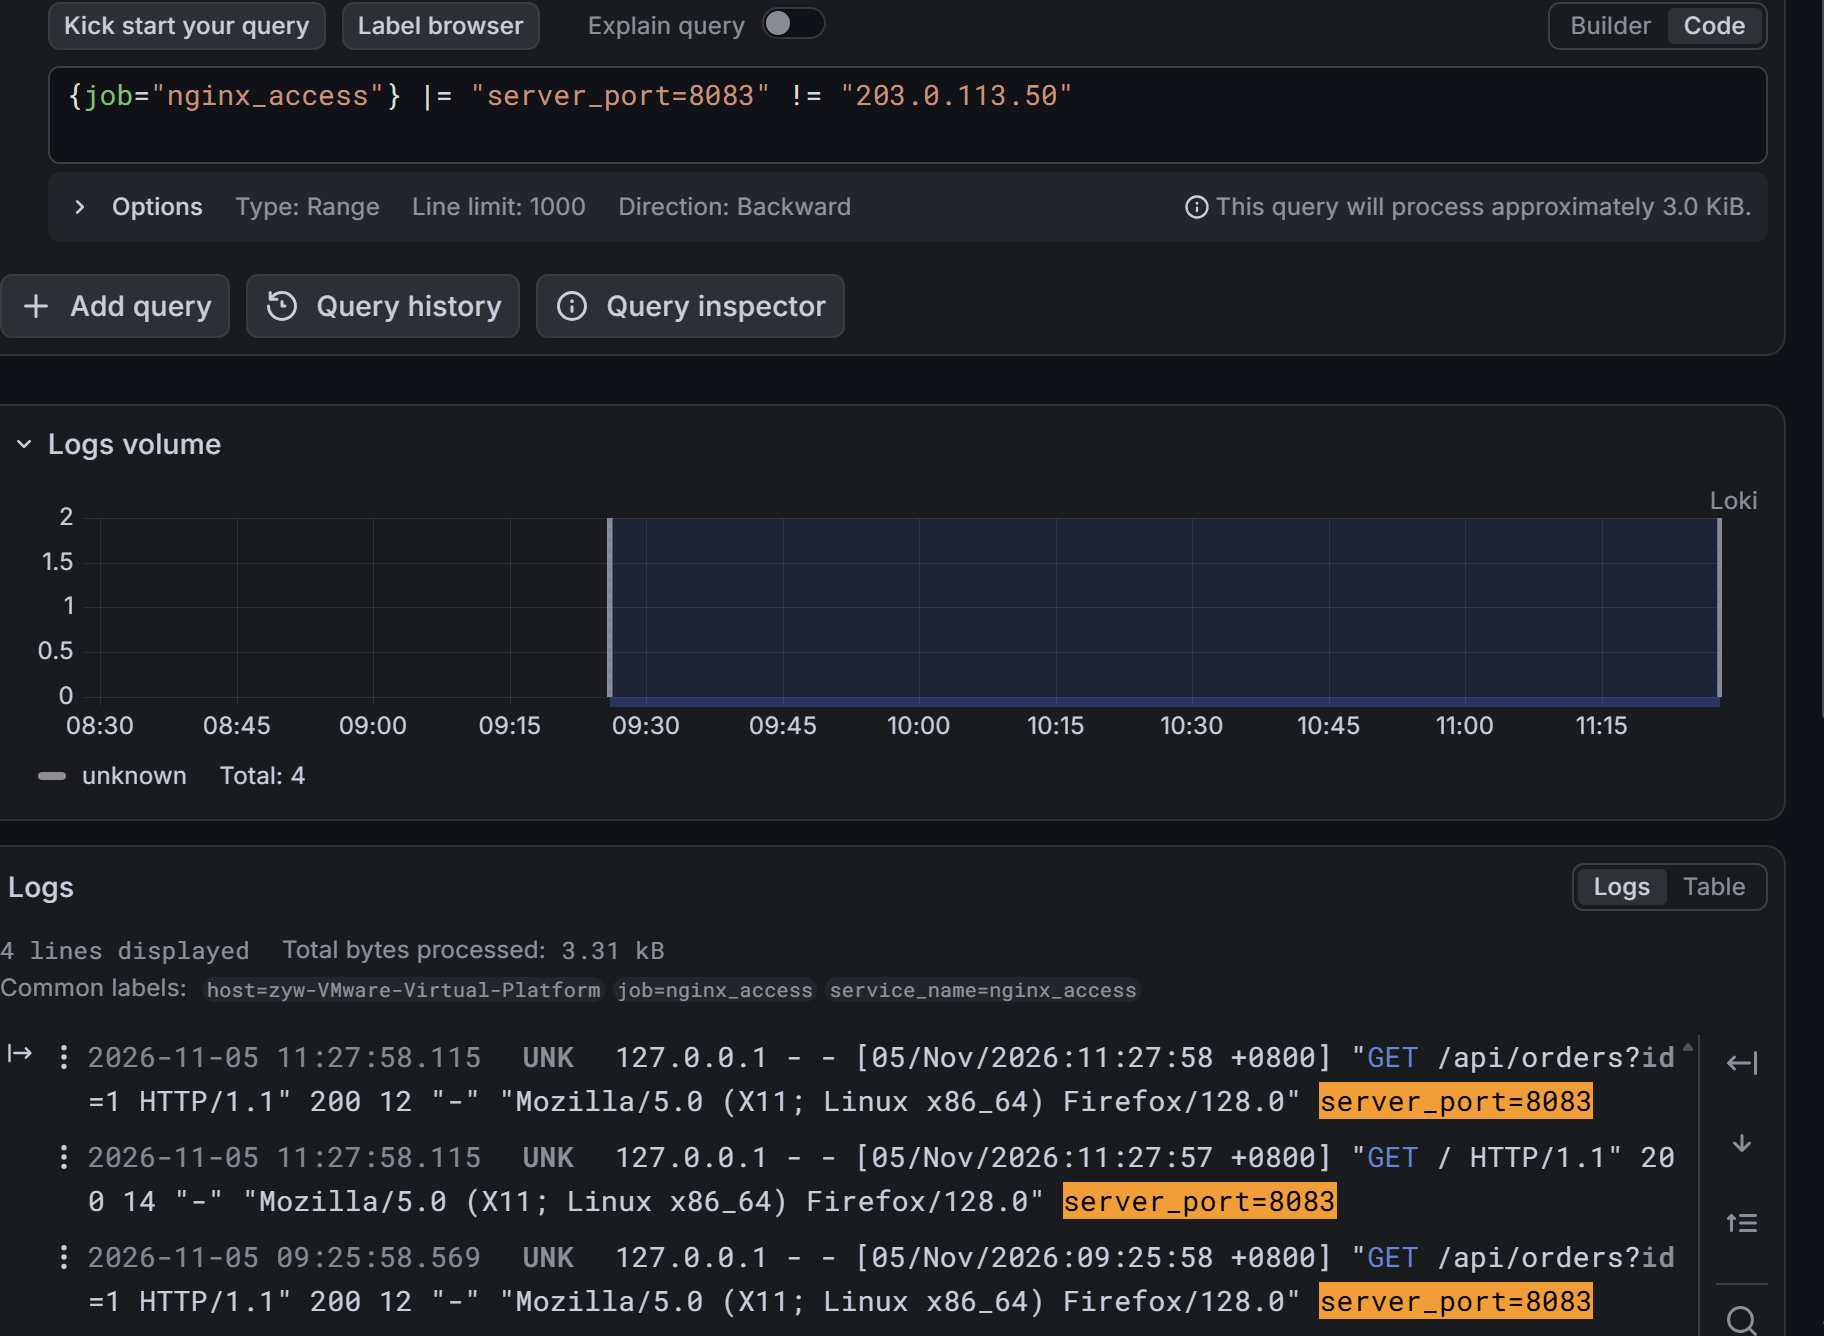
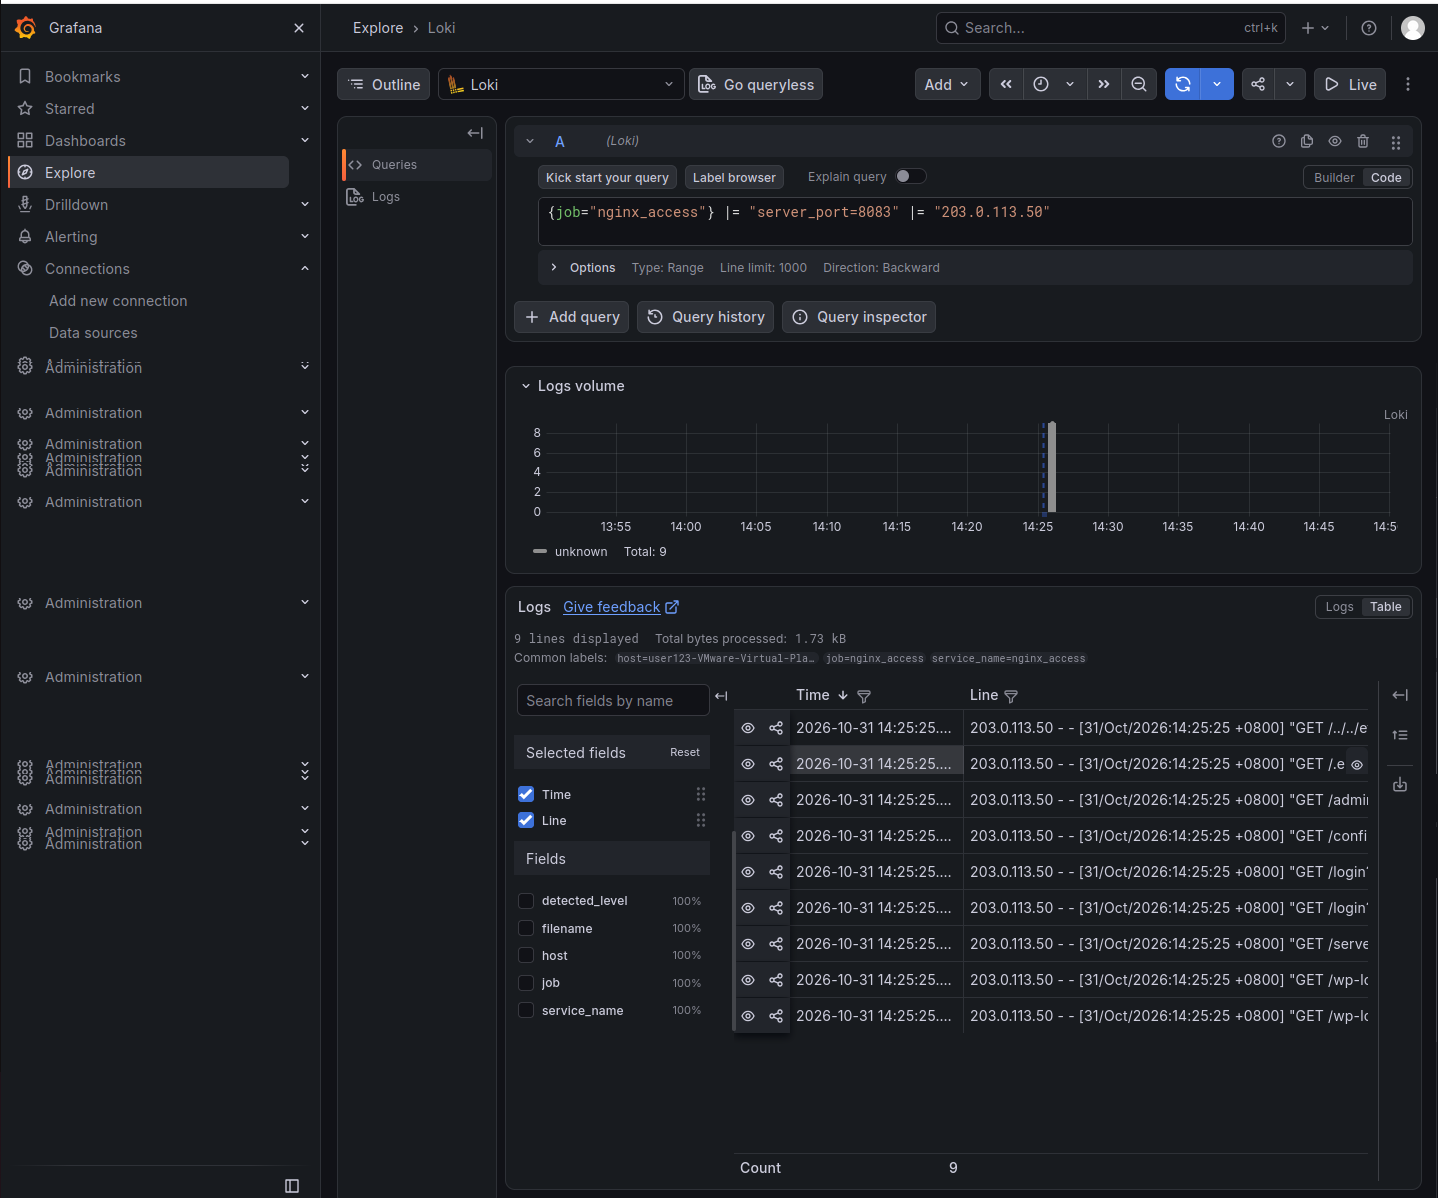
完成作业Lab8

diff --git a/2024010009张怡雯/Lab8/Lab8.md b/2024010009张怡雯/Lab8/Lab8.md
@@ -276,11 +276,11 @@ systemctl status alloy --no-pager
 >
 > 1. 8083 站点是否验证通过？`/`、`/admin`、`/.env` 的返回状态码分别是什么？
 >
->    答：8083 站点验证通过；/ 返回 200，/admin 返回403，/.env 返回404
+>    答：8083 站点验证通过；`/`返回 200，`/admin`返回 403，`/.env`返回 404
 >
 > 2. `{job="nginx_access"} |= "server_port=8083"` 包含哪些正常请求？来源 IP 是什么？若宿主机无法访问，使用哪两条请求作为对照？
 >
->    答：包含 `GET /`、`GET /api/orders?id=1` 正常请求；来源 IP 为 127.0.0.1；宿主机无法访问时，使用`GET /`和`GET /api/orders?id=1`两条请求作为对照。
+>    答：包含访问首页`/`与接口`/api/orders?id=1`的请求；正常来源 IP 为`127.0.0.1`；宿主机无法访问时，使用两条 curl 发送的 Firefox‑UA 请求作为对照
 
 ![概览](imgs/lab8-overview.png)
 
@@ -352,11 +352,11 @@ sudo tail -n 30 /var/log/nginx/access.log
 
 | 4W1R | 填写 |
 | :--- | :--- |
-| When 什么时候 |03/Nov/2026:17:00:00 +0800 |
-| Where 在哪里 |本机 nginx，标签 `host="zyw-VMware-Virtual-Platform"`，`job="nginx_access"` |
-| Who 谁 |来源 `127.0.0.1`，User-Agent 为 `Mozilla/5.0 (X11; Linux x86_64) Firefox/128.0` |
-| What 做了什么 | 向 `/api/orders?id=1` 发送 GET 请求|
-| Result 结果如何 |请求返回状态码 `200`，请求成功 |
+| When 什么时候 | 31/Oct/2026:14:25:22 +0800|
+| Where 在哪里 |本机 Nginx 8083 站点，日志源 `/var/log/nginx/access.log`，标签 `job="nginx_access"` |
+| Who 谁 |源 IP：`203.0.113.50`；UA：`sqlmap/1.8` |
+| What 做了什么 | GET 请求 `/login?user=admin' OR '1'='1`，携带 SQL 注入 payload，尝试 SQL 注入探测|
+| Result 结果如何 | HTTP 状态码 `400`，演示站固定返回，不能证明注入成功，也不能证明被拦截|
 
 示例仅说明字段填写方式，报告应使用实际查询到的日志：
 
@@ -370,15 +370,15 @@ sudo tail -n 30 /var/log/nginx/access.log
 >
 > 1. 选择了哪一条日志？原文是什么？
 >
->    答：127.0.0.1 - - [03/Nov/2026:17:00:00 +0800] "GET /api/orders?id=1 HTTP/1.1" 200 12 "-" "Mozilla/5.0 (X11; Linux x86_64) Firefox/128.0" server_port=8083
+>    答：203.0.113.50 - - [31/Oct/2026:14:25:22 +0800] "GET /login?user=admin' OR '1'='1 HTTP/1.1" 400 24 "-" "sqlmap/1.8" server_port=8083
 >
 > 2. 该日志的 4W1R 分别是什么？
 >
->    答：When：`03/Nov/2026:17:00:00 +0800`；Where：本机 nginx，标签`host="zyw-VMware-Virtual-Platform"`，`job="nginx_access"`；Who：来源`127.0.0.1`，User-Agent 为`Mozilla/5.0 (X11; Linux x86_64) Firefox/128.0`；What：向`/api/orders?id=1`发送 GET 请求查询订单；Result：返回状态码 200，接口请求成功。
+>    答：When：`31/Oct/2026:14:25:22 +0800`；Where：本机 Nginx 服务，日志文件 `/var/log/nginx/access.log`；Who：源 IP `203.0.113.50`，User-Agent `sqlmap/1.8`；What：访问 `/login` 并携带 SQL 注入载荷，做注入探测；Result：返回 400，属于演示站固定响应，无法判定注入是否成功
 >
 > 3. 攻击请求与正常请求在来源、User-Agent、路径上有哪些差异？
 >
->    答：本条是正常业务请求，来源为本机，User-Agent 是浏览器标识，访问业务接口路径；攻击请求一般会访问后台、配置文件等敏感路径，User-Agent 常为扫描工具，来源也可能是陌生外部 IP。
+>    答：来源：正常流量`127.0.0.1`，攻击流量`203.0.113.50`；User‑Agent：正常为 Firefox 浏览器标识，攻击使用模拟扫描器 UA，还有伪装浏览器 UA；路径：正常只访问业务首页与 API 接口，攻击大量访问后台、敏感文件、注入测试路径
 
 ---
 
@@ -428,11 +428,11 @@ sum by (remote_addr) (
 >
 > 1. 请求数最多的来源 IP 是哪一个？请求数约为多少？
 >
->    答：请求最多的来源 IP 是`203.0.113.50`，请求数约 9 次。
+>    答：请求最多来源 IP 是`203.0.113.50`，共计 9 条攻击请求
 >
 > 2. 除攻击来源外还有哪些来源？分别对应什么请求？
 >
->    答：还有`127.0.0.1`，对应请求：`GET /api/orders?id=1`、`GET /`，属于正常业务访问。
+>    答：`127.0.0.1`，对应手工 curl 正常请求与 web‑attack.sh 脚本产生的正常业务访问
 
 ![来源 IP 聚合](imgs/lab8-top-ip.png)
 
@@ -476,11 +476,11 @@ sum by (http_user_agent) (
 >
 > 1. 出现了哪些 User-Agent？哪些具有自动化工具特征，哪些具有正常浏览器特征？
 >
->    答：出现的 User-Agent：`Mozilla/5.0`、`Mozilla/5.0 (X11; Linux x86_64) Firefox/128.0`、`Nikto/2.5.0`、`sqlmap/1.8`。自动化工具特征：`Nikto/2.5.0`、`sqlmap/1.8`；正常浏览器特征：`Mozilla/5.0 (X11; Linux x86_64) Firefox/128.0`、`Mozilla/5.0`。
+>    答：出现`sqlmap/1.8`、`Nikto/2.5.0`、`Mozilla/5.0`、`Mozilla/5.0 (X11; Linux x86_64) Firefox/128.0`；`sqlmap/1.8`、`Nikto/2.5.0`属于模拟自动化扫描工具特征；Firefox 完整 UA 为正常浏览器特征，`Mozilla/5.0`是攻击者伪装浏览器的探测 UA
 >
 > 2. 同一 User-Agent 对应多少条请求？请求了哪些路径？
 >
->    答：`Mozilla/5.0`：1 条，请求路径`/wp-login.php`；`Mozilla/5.0 (X11; Linux x86_64) Firefox/128.0`：2 条，请求路径`/api/orders?id=1`、`/`；`Nikto/2.5.0`：5 条，请求路径`/wp-login.php`、`/server-status`、`/admin`、`/config.php.bak`、`/.env`；`sqlmap/1.8`：2 条，请求路径`/login?user=admin'OR'1'='1`。
+>    答：`sqlmap/1.8`共 2 条，访问`/login`注入探测路径；`Nikto/2.5.0`共 6 条，访问`/.env`、`/config.php.bak`、`/admin`、`/server‑status`、`/wp‑login.php`、`/../../etc/passwd`；`Mozilla/5.0`1 条访问`/wp‑login.php`；Firefox 完整 UA 共 4 条，访问`/`、`/api/orders?id=1`
 
 ![扫描器 UA](imgs/lab8-scanner.png)
 
@@ -526,11 +526,11 @@ sum by (path, status) (
 >
 > 1. 哪些路径属于业务正常路径？哪些属于攻击探测路径？
 >
->    答：正常业务路径：`/`、`/api/orders?id=1`；攻击探测路径：`/wp-login.php`、`/../../etc/passwd`、`/server-status`、`/admin`、`/config.php.bak`、`/.env`、`/login?user=admin'OR'1'='1`。
+>    答：正常业务路径：`/`、`/api/orders`；攻击探测路径：`/admin`、`/.env`、`/config.php.bak`、`/wp‑login.php`、`/server‑status`、`/login`（注入探测）、`/../../etc/passwd`
 >
 > 2. 是否存在敏感路径返回 `200`？如果有，是哪一条？
 >
->    答：不存在敏感路径返回 200，返回 200 的`/`、`/api/orders?id=1`均为正常业务路径。
+>    答：没有敏感路径返回 200，全部探测路径返回 400、403、404
 
 ![路径与状态码](imgs/lab8-paths.png)
 
@@ -558,13 +558,11 @@ sum by (path, status) (
 >
 > 1. 正常流量的来源 IP 和 User-Agent 是什么？
 >
->    答：来源 IP： 127.0.0.1 （本地回环地址,User-Agent： Mozilla/5.0 (X11; Linux x86_64) Firefox/128.0
+>    答：来源 IP`127.0.0.1`；User‑Agent 为`Mozilla/5.0 (X11; Linux x86_64) Firefox/128.0`
 >
 > 2. 仅依据“404 数量较多”判断攻击，会遗漏哪些信息？
 >
->    答：1.攻击者的真实意图： 404 只代表请求了不存在的资源。如果攻击者使用了正确的参数和路径（如 /api/orders?id=1）去测试越权或 SQL 注入，即使攻击成功，服务器也可能返回 200（正常）或 500（报错），此时单看 404 会漏报。2.非 404 的攻击行为（如扫描器探测、DDoS）： 攻击者如果频繁请求存在的页面（如 / ），此时全是 200 状态码；或者进行目录扫描时，大量请求触发 403（禁止访问）；或者单纯的 CC 攻击导致 502/503。这些都不在 404 的统计范围内。
-3.异常来源特征（如可疑的 User-Agent）： 很多自动化攻击工具（如提示中提到的 curl/8.x）或扫描器，即使它们引发了大量 404，如果不结合特征库（User-Agent、IP 频次、特定 Payload）去综合研判，仅凭 404 数量高无法确认是恶意攻击还是正常的死链访问。
-4.攻击的成功率： 大量的 404 可能只是攻击者在“踩点”或盲扫，无法判断其是否最终命中并获取了敏感数据。
+>    答：会遗漏来源 IP、请求时间集中程度、User‑Agent 特征、请求路径语义；部分正常用户访问不存在页面同样产生 404，单凭 404 不能判定扫描攻击
 
 ---
 
@@ -629,11 +627,11 @@ sudo tail -n 20 /var/log/nginx/error.log
 >
 > 1. 时间线覆盖了哪些关键请求？
 >
->    答：覆盖本地正常访问 `/`、`/api/orders?id=1` 的业务请求，以及外部 IP `203.0.113.50` 发起的目录穿越、`.env`、后台管理、备份文件、SQL 注入等探测扫描请求。
+>    答：包含正常业务访问、SQL 注入探测、敏感文件探测、后台路径探测、路径穿越探测、伪装浏览器 UA 的探测请求，完整覆盖`203.0.113.50`全部 9 条攻击行为
 >
 > 2. 结论属于哪一项？依据是什么？排除了哪种可能？
 >
->    答：结论为**证据不足，仅发现扫描行为，未发现利用成功**。依据：nginx 访问日志中所有攻击探测请求返回均为 403、404，没有敏感路径 200、没有回显或 webshell 上传等成功利用日志；仅基于 nginx access 日志，**无法排除主机层面已经被入侵的可能性**。
+>    答：结论：扫描 / 探测，未发现成功利用迹象；依据：攻击请求全部返回 400/403/404，无敏感路径返回 200；排除攻击成功利用的可能性；该结论仅基于 nginx access.log，未做完整主机取证，不能完全排除主机层面异常
 
 ---
 
@@ -641,16 +639,16 @@ sudo tail -n 20 /var/log/nginx/error.log
 
 | 项目 | 记录 |
 | :--- | :--- |
-| 攻击来源 IP |203.0.113.50 |
-| 扫描器 User-Agent（自报，不能证明真实工具） |sqlmap/1.8、Nikto、Nessus 等（实验里是 sqlmap/1.8） |
-| 被探测路径（至少 5 个） |`/wp-login.php`、`/../../etc/passwd`、`/server-status`、`/admin`、`/config.php.bak`、`/.env`、`/login?user=admin'OR'1'='1` |
-| 攻击来源 `203.0.113.50` 的状态码分布（200/400/403/404/500 各多少） |200：0；400：0；403：2；404：5；500：0 |
-| 正常流量来源（`127.0.0.1` 手工/脚本请求、宿主机浏览器等） |127.0.0.1，本地浏览器访问首页`/`和接口`/api/orders?id=1`，返回 200 |
-| 攻击时间范围 |2026-11-05 09:25 |
-| 结论（扫描/疑似成功/证据不足） |证据不足，仅存在扫描探测，access 日志无成功利用迹象 |
-| 关键 LogQL |`{job="nginx_access"}= "server_port=8083"!= "203.0.113.50"`、`{job="nginx_access"}= "203.0.113.50"` |
-| 证据截图 | Loki 日志查询截图、日志 volume 时序图、路径与状态码统计截图|
-| 处置建议（封 IP、限速、WAF、告警） |防火墙封禁攻击源 IP；部署 WAF 拦截目录穿越、SQL 注入、敏感文件探测；增加访问日志告警，对高频异常路径探测触发告警；限制后台管理路径访问源 |
+| 攻击来源 IP | 203.0.113.50|
+| 扫描器 User-Agent（自报，不能证明真实工具） |`sqlmap/1.8`、`Nikto/2.5.0`、伪装`Mozilla/5.0` |
+| 被探测路径（至少 5 个） | `/login`、`/.env`、`/admin`、`/wp‑login.php`、`/config.php.bak`|
+| 攻击来源 `203.0.113.50` 的状态码分布（200/400/403/404/500 各多少） |200：0；400：2；403：2；404：5；500：0 |
+| 正常流量来源（`127.0.0.1` 手工/脚本请求、宿主机浏览器等） |`127.0.0.1`，共 4 条正常业务请求 |
+| 攻击时间范围 |31/Oct/2026:14:25:22 +0800 ~ 31/Oct/2026:14:25:22 +0800 |
+| 结论（扫描/疑似成功/证据不足） |扫描 / 探测，未发现成功利用迹象 |
+| 关键 LogQL |{job="nginx_access"} |= "server_port=8083"；IP聚合；UA聚合；path+status聚合；筛选攻击IP203.0.113.50|
+| 证据截图 |lab8‑overview.png、lab8‑top‑ip.png、lab8‑scanner.png、lab8‑paths.png、lab8‑timeline.png |
+| 处置建议（封 IP、限速、WAF、告警） |对该 IP 执行临时封禁；配置 WAF 拦截大量敏感路径探测；配置日志告警，短时间同一 IP 大量 4xx 请求触发告警；对异常源 IP 限速 |
 
 ---
 
@@ -660,15 +658,15 @@ sudo tail -n 20 /var/log/nginx/error.log
 
 1. `sqlmap/1.8` User-Agent 和 `/.env` 请求分别能提供什么信息？仅凭这两条日志能否判断攻击已经成功？还需要哪些证据？
 
-   > 填写：`sqlmap/1.8` 标识攻击者使用 sqlmap 进行 SQL 注入探测，`/.env` 是尝试读取环境配置文件窃取密钥。仅凭这两条日志**不能判定攻击成功**。还需要查看响应状态码、响应包内容，以及主机日志、文件变更日志，确认是否拿到数据或写入文件。
+   > 填写：`sqlmap/1.8`是客户端自报 UA，提示可能为 SQL 注入扫描行为；访问`/.env`代表尝试读取敏感配置文件。仅凭两条日志不能判定攻击成功。还需要：敏感路径返回 200、存在数据泄露行为、主机侧文件被读取修改等证据
 
 2. 为什么不能以 404 数量作为入侵判断依据？还应检查哪些字段或日志源？
 
-   > 填写：404 代表资源不存在，很多正常爬虫、误访问也会产生大量 404，本身不代表入侵。还需要检查响应状态码 200、响应体、POST 上传请求，同时查看 nginx error 日志、系统安全日志、文件审计日志。
+   > 填写：普通用户访问不存在页面同样会产生 404，404 仅代表资源不存在，不等于入侵。还需要检查来源 IP、请求时间集中度、请求路径特征、User‑Agent；同时核对`auth.log`、nginx 错误日志等主机日志
 
 3. 攻击者将 User-Agent 伪装为正常 Chrome 后，哪些行为特征仍可用于识别扫描？
 
-   > 填写：可以通过请求路径特征识别，例如批量访问`.env`、备份文件、目录穿越 payload。同时高频短时间大量请求、异常参数（SQL 注入语句）、不存在的后台路径探测，都可以作为扫描识别特征。
+   > 填写：短时间大量请求各类敏感探测路径；请求频率很高；请求路径集中在后台、备份、注入测试路径；没有正常业务访问行为，以上行为特征不受 UA 伪造影响
 
 ---
 
